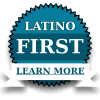
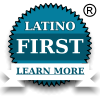
[#154361240] Added registered mark to Supermonedero seal (#10)

Changed region(s): [[0.81, 0.03, 0.99, 0.18]]

diff --git a/js/credit-cards-common.js b/js/credit-cards-common.js
@@ -12,8 +12,8 @@ var URL_GET_FREE_SCORE = 'https://www.creditkarma.com/signup';
 $('body').on('click mouseenter', 'a[data-tooltip]', function () {
   $(this).qtip({
     content: {
-      title: 'Latino First',
-      text: 'Our Latino First badge is granted to those financial products that are the best fit for the Latino community'
+      title: 'Latino First<sup>&reg;</sup>',
+      text: 'Our Latino First<sup>&reg;</sup> badge is granted to those financial products that are the best fit for the Latino community'
     },
     style: {
       classes: 'qtip-bootstrap'

diff --git a/credit-cards-list.html b/credit-cards-list.html
@@ -110,7 +110,7 @@ layout: cards
     <h4>Misc</h4>
     <div class="checkbox checkbox-primary">
       <input type="checkbox" id="check-latino-first">
-      <label for="check-latino-first">Latino First</label>&nbsp;<a href='javascript:void(0);' data-tooltip='yes'><i class="fa fa-question-circle" aria-hidden="true"></i></a>
+      <label for="check-latino-first">Latino First<sup>&reg;</sup></label>&nbsp;<a href='javascript:void(0);' data-tooltip='yes'><i class="fa fa-question-circle" aria-hidden="true"></i></a>
     </div>
   </div>
 

diff --git a/css/credit-cards-compare.css b/css/credit-cards-compare.css
@@ -53,6 +53,10 @@
   top: 0px;
 }
 
+table#card-compare td.card-column .img-wrapper {
+  margin: 10px;
+}
+
 .section-title {
   display: none;
 }
